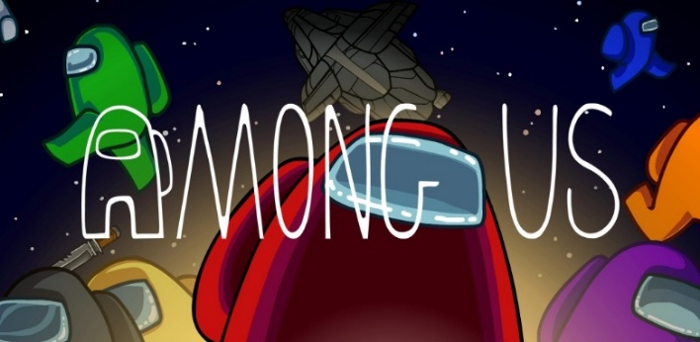
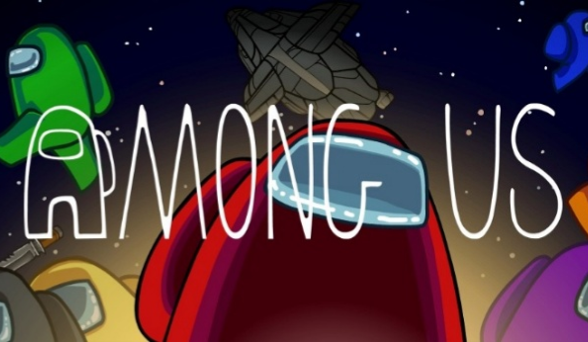
resized some images and fixed a type

diff --git a/index.html b/index.html
@@ -37,7 +37,7 @@
             </div>
             <div>
                 <img src="images/Progression.png" alt="Stats">
-                <p>Meaningfull Progression</p>
+                <p>Meaningful Progression</p>
             </div>
             <div>
                 <img src="images/Factor.png" alt="Star">
